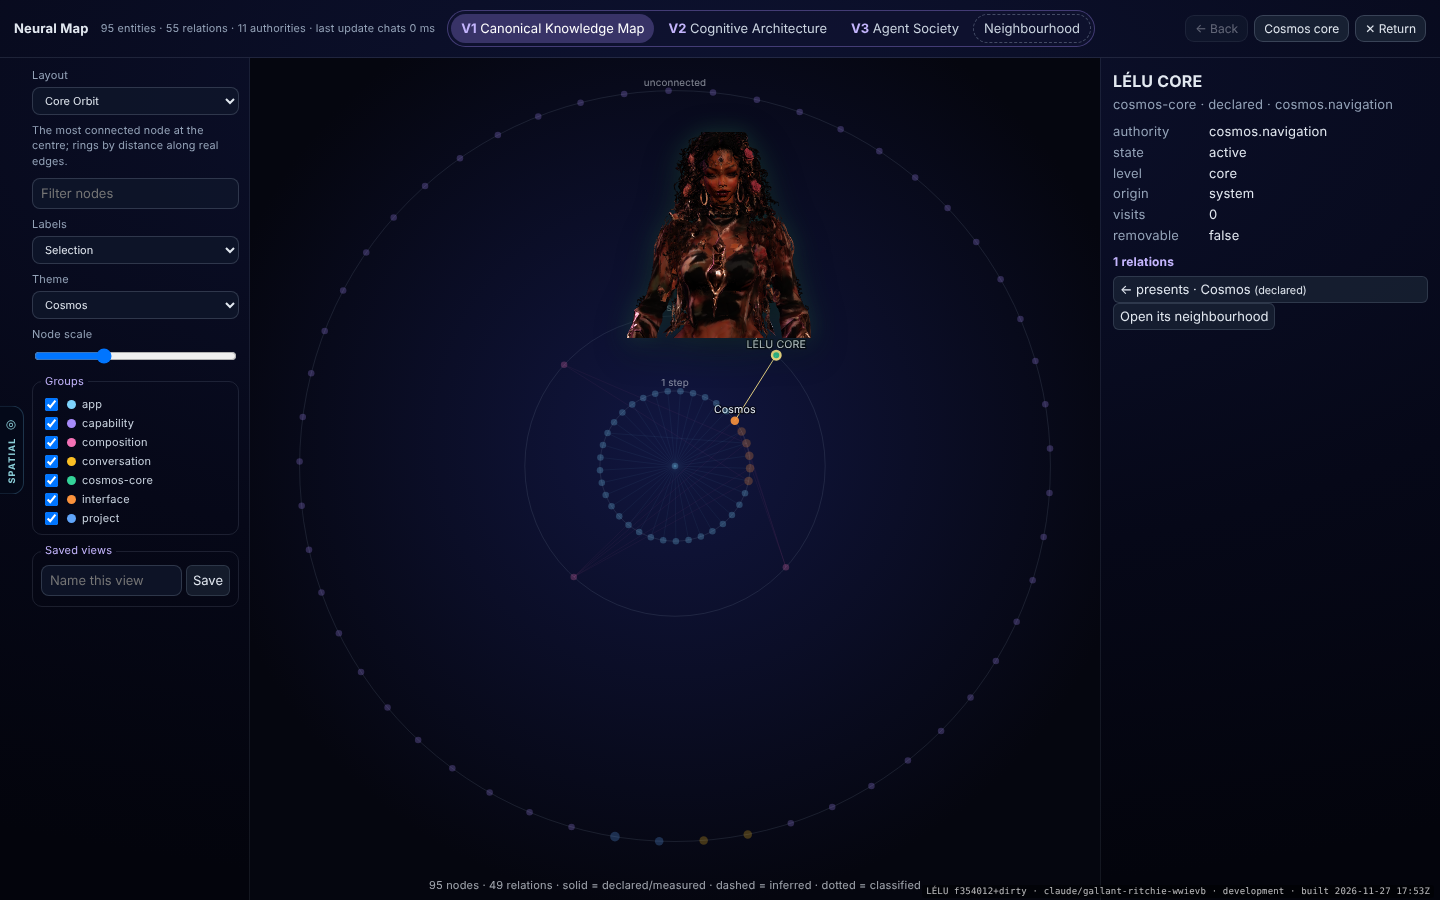
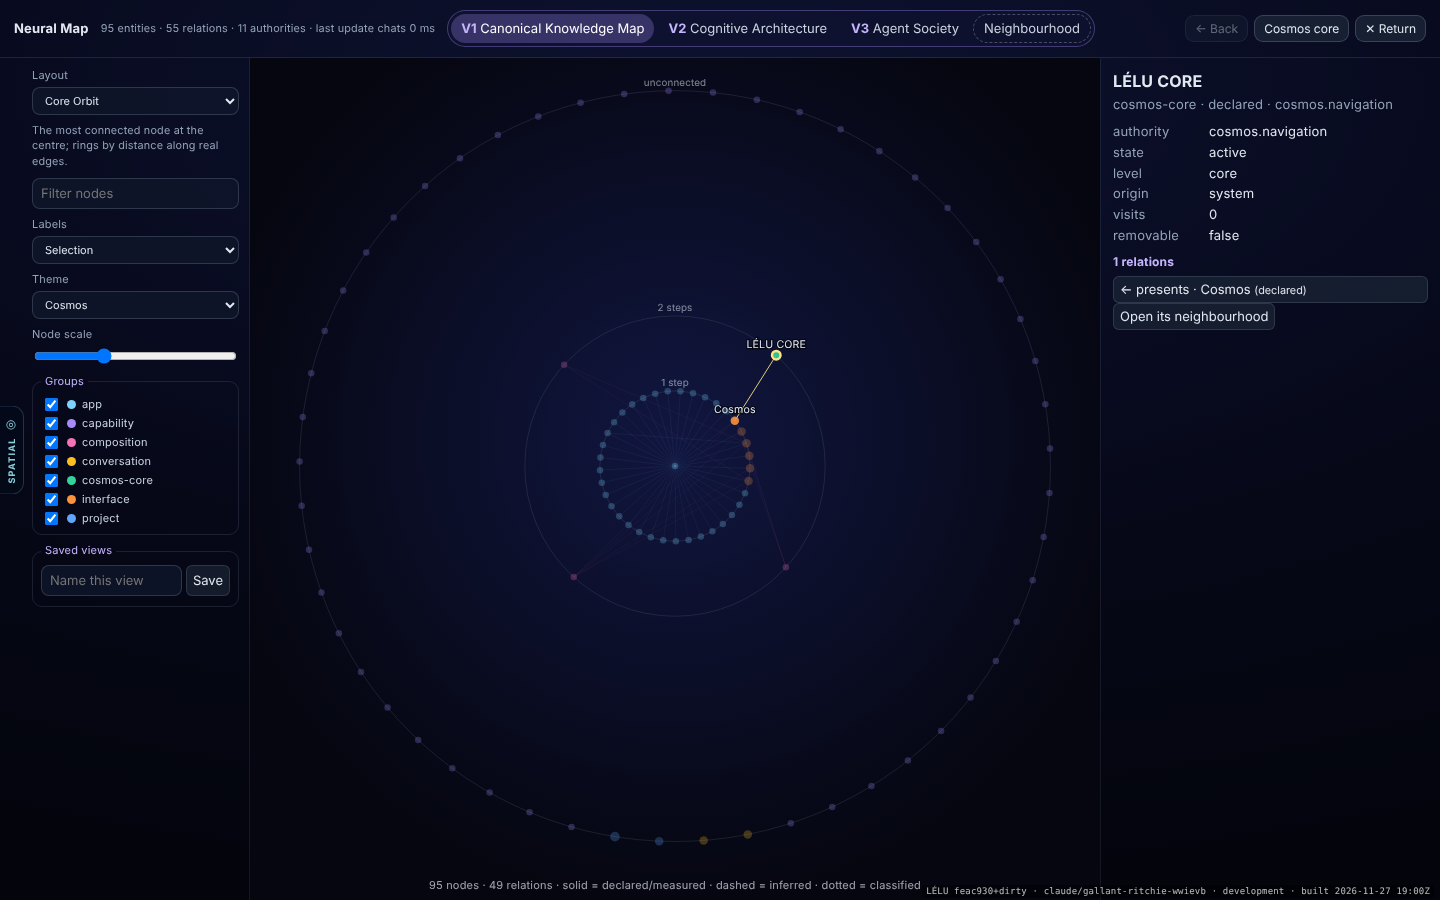
Let her step away from full-screen surfaces instead of covering the Neural Map
On Home her companion kept its hero spot while the standalone Neural Map
was open over it, so her body covered the map's stage on desktop and the
header buttons (Back, Cosmos core) on iPhone. Nothing she could pick was
free: the map owns the whole screen.

A surface that owns the whole screen now says so with
data-lelu-covers-screen (the standalone map does; the map embedded in a
composition region does not). choosePlace checks it before every other
rule, the user's own drop and the hero spot included, and returns
"away": she is hidden, takes no touches and her render is paused. Every
other placement is unchanged, and she returns as soon as the map closes.

Regression coverage: a unit test on the rule, and the multiverse
verifier now hit-tests every header button, select, input and the stage
on desktop and iPhone (nothing outside the map may be topmost), and
checks she is back in her hero place after closing. 51/51 verified.

Claude-Session: https://claude.ai/code/session_017r5V6N97c4ksPFc1eZj1j6

Changed region(s): [[0.4375, 0.1244, 0.5625, 0.4044]]

diff --git a/src/app/scene/genesis/avatar/LeluCompanion.tsx b/src/app/scene/genesis/avatar/LeluCompanion.tsx
@@ -210,6 +210,8 @@ function Presence({ companion }: { companion: CompanionState }) {
   // A modal sheet (App Library, Windows, Worlds) is open over the interface.
   const sheetOpen = usePresent(".lsh-backdrop");
   const universeOpen = useUniverseOpen();
+  // A surface that owns the whole screen (the standalone Neural Map): she steps out.
+  const covered = usePresent("[data-lelu-covers-screen]");
   const homeShown = usePresent("[data-lelu-home]");
   const character = useLeluCharacter();
   const renderProfile = useRenderProfile();
@@ -310,7 +312,7 @@ function Presence({ companion }: { companion: CompanionState }) {
   const [live, setLive] = useState<Box | null>(null);
   const gesture = useRef<{ x: number; y: number; start: Box; moved: boolean } | null>(null);
 
-  const { place, target } = choosePlace({ inWorld, placed: placedBox, onHome, hero, plan: crowded ? { ...plan, hidden: true } : plan, space, compact, preview: inWorld ? null : previewSpot });
+  const { place, target } = choosePlace({ inWorld, placed: placedBox, onHome, hero, plan: crowded ? { ...plan, hidden: true } : plan, space, compact, preview: inWorld ? null : previewSpot, covered });
   const box = live ?? target;
   /*
    * Her canvas keeps its size when her place merely shrinks (Home portrait →
@@ -508,8 +510,8 @@ function Presence({ companion }: { companion: CompanionState }) {
     // Behind an open modal sheet she stays in view (dimmed with the rest of
     // the interface) but under it: the sheet's own controls take touches.
     zIndex: place === "preview" ? layer("panelActive") + 1 : live ? layer("panelActive") : sheetOpen ? 1 : underSheet ? CHAT_WINDOW_Z + 10 : within("panel", 45),
-    visibility: inWorld ? "hidden" : "visible",
-    opacity: inWorld ? 0 : place === "planned" ? plan.opacity : 1,
+    visibility: inWorld || place === "away" ? "hidden" : "visible",
+    opacity: inWorld || place === "away" ? 0 : place === "planned" ? plan.opacity : 1,
     pointerEvents: "none",
     userSelect: "none",
     // No frame, no title bar: only her, with a soft light of what she is doing.
@@ -554,7 +556,7 @@ function Presence({ companion }: { companion: CompanionState }) {
         style={{
           position: "absolute",
           inset: 0,
-          pointerEvents: inWorld || sheetOpen || place === "preview" ? "none" : "auto",
+          pointerEvents: inWorld || sheetOpen || place === "preview" || place === "away" ? "none" : "auto",
           touchAction: "none",
           cursor: live ? "grabbing" : "grab",
           outline: "none",
@@ -568,7 +570,7 @@ function Presence({ companion }: { companion: CompanionState }) {
             the scene), or in the measured low-power rest above. Beside a
             phone sheet she used to be paused on a captured still on EVERY
             device — frozen on every screen but Home. */}
-        <LeluCharacter framing={framing} form={form} fps={fps} testId="lelu-companion-character" paused={inWorld || lowPowerRest} />
+        <LeluCharacter framing={framing} form={form} fps={fps} testId="lelu-companion-character" paused={inWorld || lowPowerRest || place === "away"} />
       {saved ? (
         <button
           type="button"

diff --git a/tests/avatar-presence.test.ts b/tests/avatar-presence.test.ts
@@ -38,6 +38,25 @@ test("placement order: world, your spot, the hero spot, the planner, an edge", (
   assert.equal(choosePlace({ inWorld: false, placed: null, onHome: false, hero: null, plan: plan(true), space: space(), compact: false }).place, "edge");
 });
 
+test("a full-screen surface (the standalone Neural Map) sends her away, over every other rule", () => {
+  const hero = box(500, 40, 400, 330);
+  for (const input of [
+    { inWorld: false, placed: box(50, 50), onHome: true, hero, plan: plan(false) },
+    { inWorld: false, placed: null, onHome: true, hero, plan: plan(false) },
+    { inWorld: false, placed: null, onHome: false, hero: null, plan: plan(true) },
+  ]) {
+    assert.equal(choosePlace({ ...input, space: space(), compact: false, covered: true }).place, "away");
+    // Without the surface, the same input keeps its normal place.
+    assert.notEqual(choosePlace({ ...input, space: space(), compact: false, covered: false }).place, "away");
+  }
+  // The marker is on the standalone map only, not on the map embedded in a composition region.
+  const view = readFileSync("src/app/scene/genesis/neural/NeuralMapView.tsx", "utf8");
+  assert.match(view, /data-lelu-covers-screen=\{embedded \? undefined : ""\}/);
+  const companion = readFileSync("src/app/scene/genesis/avatar/LeluCompanion.tsx", "utf8");
+  assert.match(companion, /usePresent\("\[data-lelu-covers-screen\]"\)/);
+  assert.match(companion, /place === "away" \? "none"/, "away takes no touches");
+});
+
 test("where you put her is kept until it would cover the composer or a control", () => {
   const composer = box(0, 800, 1440, 100);
   const s = space({ composer });

diff --git a/src/app/scene/genesis/avatar/presencePlacement.ts b/src/app/scene/genesis/avatar/presencePlacement.ts
@@ -12,7 +12,12 @@ const EDGE = 12;
 type Box = Rect;
 
 /** Where she is, and why — the attribute tests and evidence read. */
-export type PresencePlace = "hero" | "planned" | "placed" | "edge" | "world" | "preview";
+/**
+ * "away": a surface that owns the whole screen (marked
+ * `data-lelu-covers-screen`, e.g. the standalone Neural Map) is open. No spot
+ * on it is free, so she steps out until it closes instead of covering it.
+ */
+export type PresencePlace = "hero" | "planned" | "placed" | "edge" | "world" | "preview" | "away";
 
 
 /**
@@ -115,8 +120,13 @@ export function choosePlace(input: {
   compact: boolean;
   /** The Avatar panel's preview spot, when it is on screen. */
   preview?: Rect | null;
+  /** A full-screen surface (data-lelu-covers-screen) is open over everything. */
+  covered?: boolean;
 }): { place: PresencePlace; target: Box } {
-  const { inWorld, placed, onHome, hero, plan, space, compact, preview } = input;
+  const { inWorld, placed, onHome, hero, plan, space, compact, preview, covered } = input;
+  // Before every other rule: on a full-screen surface any spot, the user's own
+  // drop and the Home hero included, would sit on its stage or its controls.
+  if (covered) return { place: "away", target: edgeRest(space, compact) };
   if (inWorld) return { place: "world", target: placed ?? edgeRest(space, compact) };
   if (preview && preview.width > 40 && preview.height > 60) return { place: "preview", target: preview };
   if (placed && !blocksSomething(placed, space)) return { place: "placed", target: placed };

diff --git a/src/app/scene/genesis/neural/NeuralMapView.tsx b/src/app/scene/genesis/neural/NeuralMapView.tsx
@@ -260,7 +260,7 @@ export default function NeuralMapView({ embedded = false }: { embedded?: boolean
 
   const style: CSSProperties | undefined = embedded ? { position: "absolute", inset: 0 } : undefined;
   return (
-    <div className="nm-standalone" data-neural-map-view data-embedded={embedded ? "true" : "false"} data-layer={view.standalone.layer ?? "base"} data-from={view.standalone.from ?? ""} data-cl-neural={cosmos.composition.id} style={style} role="region" aria-label="Neural Map">
+    <div className="nm-standalone" data-neural-map-view data-embedded={embedded ? "true" : "false"} data-lelu-covers-screen={embedded ? undefined : ""} data-layer={view.standalone.layer ?? "base"} data-from={view.standalone.from ?? ""} data-cl-neural={cosmos.composition.id} style={style} role="region" aria-label="Neural Map">
       <header className="nm-top">
         <strong data-cl-map-title>{mapTitle(cosmos.composition.id, entityLabel)}</strong>
         <small data-neural-stats>
